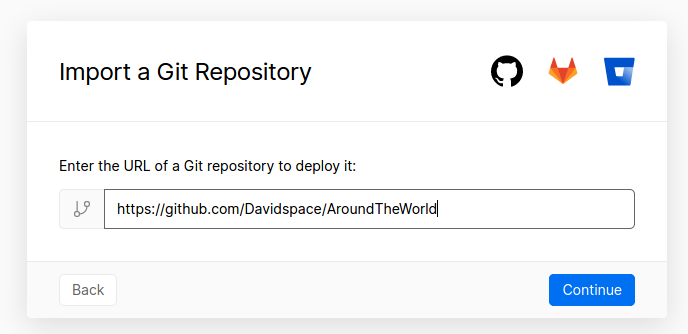
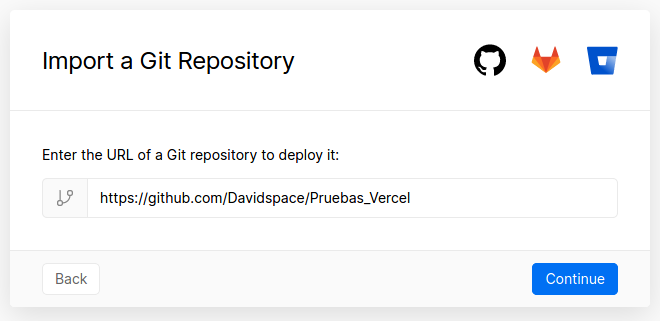
Modificado ejercicio 1

diff --git a/Serverless computing/Ejercicio 1.md b/Serverless computing/Ejercicio 1.md
@@ -14,23 +14,15 @@ Vercel es una empresa que ofrece en su servicio en el cloud la posibilidad de tr
 
 ![Importar repositorio de Git](https://github.com/Davidspace/Ejercicios_IV/blob/main/%20Serverless%20computing/imagenes/vercel2.png)
 
-3. Facilito la URL del repositorio que quiero importar
+3. Facilito la URL del repositorio que quiero importar. En este caso he creado un repositorio para llevar a cabo pruebas en él
 
 ![Añado URL de mi repositorio de Git](https://github.com/Davidspace/Ejercicios_IV/blob/main/%20Serverless%20computing/imagenes/vercel3.png)
 
-4. Confirmo que mi cuenta de GitHub es realmente mia
-
-![Confirmación de cuenta de GitHub](https://github.com/Davidspace/Ejercicios_IV/blob/main/%20Serverless%20computing/imagenes/vercel4.png)
-
-5. Selecciono los repositorios en los que quiero instalar Vercel y doy comienzo a dicha instalación
-
-![Instalación de Vercel en los repositorios seleccionados](https://github.com/Davidspace/Ejercicios_IV/blob/main/%20Serverless%20computing/imagenes/vercel5.png)
-
-6. Selecciono el directorio en el que quiero llevar a cabo dicha instalación, es decir, el directorio raíz de mi repositorio
+4. Selecciono el directorio en el que quiero llevar a cabo dicha instalación, es decir, el directorio raíz de mi repositorio
 
 ![Selección del directorio raíz de mi repositorio](https://github.com/Davidspace/Ejercicios_IV/blob/main/%20Serverless%20computing/imagenes/vercel6.png)
 
-7. Elijo el nombre del proyecto y llevo a cabo el despliegue.
+5. Elijo el nombre del proyecto y llevo a cabo el despliegue.
 
 ![Nombre del proyecto y despliegue](https://github.com/Davidspace/Ejercicios_IV/blob/main/%20Serverless%20computing/imagenes/vercel7.png)
 
@@ -47,14 +39,14 @@ Ya me encontraba dado de alta en Firebase debido a que basta con contar con una 
 
 ## Trabajar de manera local con ambos sistemas
 
-Para trabajar tanto con Vercel como con Firebase de manera local será necesario la descarga de un SDK (Software development kit). En mi caso utilizaré **ngrok** para Firebase, una aplicación que me permite servir desde mi ordenador a una dirección web. Los pasos a seguir para su descarga y configuración se encuentran [aquí](https://ngrok.com/download).
+Para trabajar tanto con Vercel como con Firebase de manera local será necesario la descarga de un SDK (Software development kit).
 
-**Ngrok** funcionando en mi equipo:
-
-![Comando help de Ngrok](https://github.com/Davidspace/Ejercicios_IV/blob/main/%20Serverless%20computing/imagenes/ngrok1.png)
-
-Para Vercel utilizaré su cliente, Vercel CLI. Lo descargo e instalo de la siguiente manera:
+Para Vercel utilizaré Vercel CLI. Lo descargo e instalo de la siguiente manera:
 
 `npm i -g vercel`
 
 ![Vercel CLI funcionando](https://github.com/Davidspace/Ejercicios_IV/blob/main/%20Serverless%20computing/imagenes/vercel8.png)
+
+Descargaré el SDK de Firebase de la siguiente manera:
+
+`curl -sL https://firebase.tools | bash`
